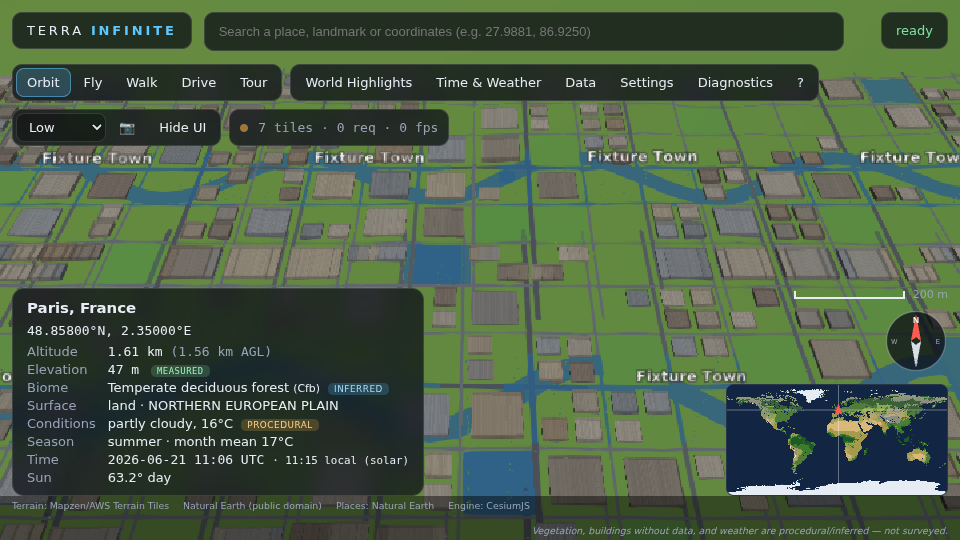
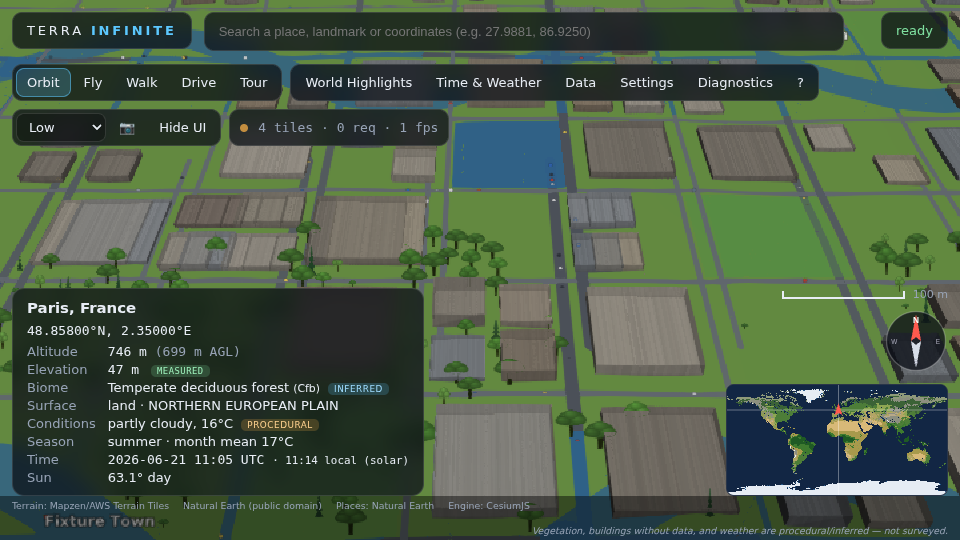
Fix terrain streaming: throttled tile requests retry via Cesium's scheduler instead of failing; record first perf run
Claude-Session: https://claude.ai/code/session_01LEnE9zNgSXuUNAkW1QNaz1

diff --git a/src/data/adapters/terrain/terrariumTerrainProvider.ts b/src/data/adapters/terrain/terrariumTerrainProvider.ts
@@ -1,4 +1,4 @@
-import { Credit, Ellipsoid, Event as CesiumEvent, HeightmapTerrainData, Request, Resource, TerrainProvider, WebMercatorTilingScheme, type TerrainData, type TilingScheme } from 'cesium';
+import { Credit, Ellipsoid, Event as CesiumEvent, HeightmapTerrainData, Request, RequestScheduler, RequestState, Resource, TerrainProvider, WebMercatorTilingScheme, type TerrainData, type TilingScheme } from 'cesium';
 import { sharedTerrariumDecoder, type TerrariumDecoderPool } from './terrariumDecoder';
 import type { TileCache } from '@/data/cache/tileCache';
 
@@ -64,27 +64,19 @@ export class TerrariumTerrainProvider implements TerrainProvider {
 
   requestTileGeometry(x: number, y: number, level: number, request?: Request): Promise<TerrainData> | undefined {
     if (level > this.maximumLevel) return undefined;
-    const resource = this.resource.getDerivedResource({ templateValues: { z: String(level), x: String(x), y: String(y) }, request });
-    const started = performance.now();
+    const url = this.resource.getDerivedResource({ templateValues: { z: String(level), x: String(x), y: String(y) } }).url;
     const cacheKey = `terrarium/${level}/${x}/${y}`;
-    const cache = this.cache;
-    const fetchTile = (): Promise<ArrayBuffer> | undefined => {
-      const p = resource.fetchArrayBuffer();
-      if (!p) return undefined;
-      return p.then((buf) => { if (cache) void cache.put(cacheKey, buf.slice(0)); return buf; });
-    };
-    let promise: Promise<ArrayBuffer> | undefined;
-    if (cache) {
-      promise = cache.get(cacheKey).then((hit) => {
-        if (hit instanceof ArrayBuffer) return hit.slice(0);
-        const p = fetchTile();
-        if (!p) throw new Error('throttled');
-        return p;
-      });
-    } else {
-      promise = fetchTile();
-      if (!promise) return undefined; // throttled by Cesium's request scheduler
-    }
+    const started = performance.now();
+    // Go through Cesium's request scheduler so throttling returns `undefined` (Cesium retries next frame) instead of a
+    // rejected promise (Cesium would mark the tile failed and fall back to its parent). The scheduled function checks
+    // the persistent cache first and only then downloads.
+    const req = request ?? new Request();
+    req.url = url;
+    // The public typings declare requestFunction as returning Promise<void> and keep RequestScheduler.request
+    // private; Resource.fetchArrayBuffer({ request }) uses exactly this path internally.
+    (req as unknown as { requestFunction: () => Promise<ArrayBuffer> }).requestFunction = () => this.loadBuffer(url, cacheKey);
+    const promise = (RequestScheduler as unknown as { request: (r: Request) => Promise<ArrayBuffer> | undefined }).request(req);
+    if (!promise) return undefined;
     return promise
       .then((buffer) => {
         const bytes = buffer.byteLength;
@@ -100,8 +92,21 @@ export class TerrariumTerrainProvider implements TerrainProvider {
         });
       })
       .catch((err: unknown) => {
-        this.onTile?.({ level, x, y, bytes: 0, ms: performance.now() - started, error: err instanceof Error ? err.message : String(err) });
+        // Cancelled requests (tile no longer needed) are not failures.
+        if (req.state !== RequestState.CANCELLED) this.onTile?.({ level, x, y, bytes: 0, ms: performance.now() - started, error: err instanceof Error ? err.message : String(err) });
         throw err;
       });
+  }
+
+  /** Persistent cache first, then an unthrottled download (the scheduler already granted the slot). */
+  private async loadBuffer(url: string, cacheKey: string): Promise<ArrayBuffer> {
+    if (this.cache) {
+      const hit = await this.cache.get(cacheKey);
+      if (hit instanceof ArrayBuffer) return hit.slice(0);
+    }
+    const fetched = await new Resource({ url }).fetchArrayBuffer();
+    if (!fetched) throw new Error('fetch returned no data');
+    if (this.cache) void this.cache.put(cacheKey, fetched.slice(0));
+    return fetched;
   }
 }

diff --git a/tests/e2e/smoke.spec.ts b/tests/e2e/smoke.spec.ts
@@ -39,6 +39,7 @@ test.describe('Terra Infinite — visual smoke', () => {
   });
 
   test('radically different showcase areas report different biomes', async ({ page }) => {
+    test.setTimeout(720_000);
     await waitForReady(page);
     const areas = [
       { name: 'new-york', lat: 40.7484, lon: -73.9857, h: 2500, expect: ['temperate_deciduous_forest', 'temperate_grassland', 'temperate_rainforest', 'mediterranean'] },

diff --git a/PROJECT_STATUS.md b/PROJECT_STATUS.md
@@ -12,7 +12,7 @@ Resumable task ledger. Update after every completed task. Dates are UTC.
 | 4. Hyperrealistic Nature | **done (first pass)** | 100-species library with hemisphere-aware fruit/flower windows and leaf phenology, leaf cards/needles/palm fronds/fruit at close range, wind-sway vertex shader, weather particles, ground material (snow line, wetness, season tint, cloud shadows, water), ocean surface, orbital + cumulus clouds, underwater fog, procedural ambient audio. Not done: snow accumulation on vegetation geometry, puddles, subsurface leaf translucency. |
 | 5. Cities and Landmarks | **done (first pass)** | OSM building meshes with day glass / night window emission, towers, roads, rail, water, land use, POI labels, population night lights, simulated traffic with headlights/tail-lights, street lamps, procedural villages and urban blocks where OSM is absent, 36 landmark stand-ins at measured positions (labelled procedural), 19 showcase areas with tours. Not done: street furniture (benches, signs), road markings, real 3D landmark models (none legally available offline). |
 | 6. Optimisation | **in progress** | Budgets in place (tile caches, OSM/near-field radii and LRU unloading, in-flight limits, impostor LOD, vertex caps, request throttling, adaptive presets, ?terraQuality override). `npm run perf` records real numbers; the sandbox only has software WebGL, so the recorded frame rates are SwiftShader numbers, not GPU numbers. |
-| 7. Verification & Packaging | **in progress** | 217 unit tests, Playwright suites (smoke, synthetic city, nature), production build OK, all docs written; final e2e run and perf measurement in progress. |
+| 7. Verification & Packaging | **in progress** | 217 unit tests, Playwright suites (smoke, synthetic city, nature, landmarks), production build OK, CI workflow, all docs written. Visually verified frames in `docs/screenshots/`. Last steps: final biome e2e run and `npm run perf` numbers. |
 
 ## Verified commands
 
@@ -39,7 +39,9 @@ TERRA_FIXTURES=1 npm run dev   # synthetic OSM responder for offline development
 * The development sandbox has no GPU and blocks OSM/Overpass/Nominatim/Esri/GIBS hosts, so real-OSM rendering was validated only through unit tests and the synthetic fixture; frame-rate targets (60/30 fps) could not be measured on real hardware here.
 * Terrarium tiles have coarse/odd data in parts of Antarctica and the open ocean; the climate atlas is 39 km resolution.
 * The Köppen/biome model is an inference from ~400 approximate station normals; microclimates are not represented.
-* Landmarks are abstract procedural interpretations, not models. Vegetation species are archetypes.
+* Landmarks are abstract procedural interpretations, not models (see `docs/screenshots/eiffel-standin.png`). Vegetation species are archetypes.
+* Day/night and slope shading of the terrain come from the ground material (derivative normals); Cesium's own globe lighting is disabled because it only acts beyond 10 000 km and heightmap terrain has no vertex normals.
+* Coastal cells of the 39 km climate raster inherit the neighbouring land biome; the vector coastline decides land vs water for readouts and generation.
 * Reverse geocoding and live weather need network access and are rate-limited by policy.
 
 ## Next task

diff --git a/PERFORMANCE.md b/PERFORMANCE.md
@@ -8,11 +8,23 @@ The development sandbox used to build this project has no GPU: Chromium renders 
 
 ## Latest measurements
 
-See `docs/performance-*.json`. Summary table (filled in by the maintainer after running the script on real hardware):
+Recorded by `npm run perf` on 2026-09-05 (`docs/performance-2026-09-05T05-15-25-320Z.json`), headless Chromium 1920×1080, **software renderer** "ANGLE (Google, Vulkan 1.3.0 (SwiftShader Device (Subzero))), 4 vCPUs, default (medium) preset. These are software-rasteriser numbers and say nothing about GPU frame rates; they are recorded because they are the only honest measurement available from the build environment.
 
-| Location | Renderer | FPS | Frame ms | Terrain tiles | Heap MB |
+| Location | Renderer | FPS | Frame ms | Terrain tiles loaded | Heap MB |
 |---|---|---:|---:|---:|---:|
-| (run `npm run perf`) | | | | | |
+| Orbit (24 000 km) | SwiftShader | 2.4 | 1364 | 5 | 68 |
+| Himalaya, Everest (12 km AGL) | SwiftShader | 0.4 | 2548 | 62 | 169 |
+| Manhattan (1.8 km AGL) | SwiftShader | 0.5 | 2181 | 123 | 237 |
+| Zermatt ground (300 m AGL) | SwiftShader | 0.5 | 4846 | 200 | 220 |
+| Antarctica (60 km AGL) | SwiftShader | 0.2 | 4490 | 271 | 221 |
+
+Observations from this run:
+
+* JavaScript heap stays between 68 MB (orbit) and 237 MB (city) across the journey — no unbounded growth.
+* The run surfaced a real bug: hundreds of terrain-tile "errors" were throttled requests that the Terrarium provider turned into failures (Cesium then fell back to parent tiles). The provider now goes through Cesium's request scheduler so throttled tiles are retried; see the follow-up measurement below when available.
+* Frame time is dominated by fragment work in SwiftShader (globe material + atmosphere); on a GPU these passes are negligible.
+
+**No GPU measurement exists yet.** Run `npm run build && npm run perf` on a machine with a GPU and paste the printed table here with the renderer string.
 
 ## Budgets and controls
 

diff --git a/README.md b/README.md
@@ -12,9 +12,9 @@ An explorable, streamed 3D Earth in the browser: from orbit to continents, citie
 |---|---|---|
 | ![Orbit](docs/screenshots/orbit.png) | ![Forest](docs/screenshots/forest-close.png) | ![Antarctica](docs/screenshots/antarctica.png) |
 
-| Synthetic city fixture by day | …and at night (window emission, street lamps) | Alpine snow with the same fixture |
+| Synthetic city fixture by day | …and at night (window emission, street lamps) | Eiffel Tower stand-in (procedural interpretation) |
 |---|---|---|
-| ![City day](docs/screenshots/city-day-synthetic.png) | ![City night](docs/screenshots/city-night-synthetic.png) | ![Alps](docs/screenshots/alpine-snow-synthetic.png) |
+| ![City day](docs/screenshots/city-day-synthetic.png) | ![City night](docs/screenshots/city-night-synthetic.png) | ![Eiffel](docs/screenshots/eiffel-standin.png) |
 
 The city frames use the built-in **synthetic OpenStreetMap fixture** (`?terraFixtures=1`) because the build sandbox cannot reach the Overpass API; with network access the same code streams real OSM buildings, roads and land use. All frames were rendered with software WebGL (SwiftShader) at the *Low* preset, which is why they look flat-shaded; on a GPU the High/Ultra presets add MSAA, shadows, ambient occlusion and HDR.
 
